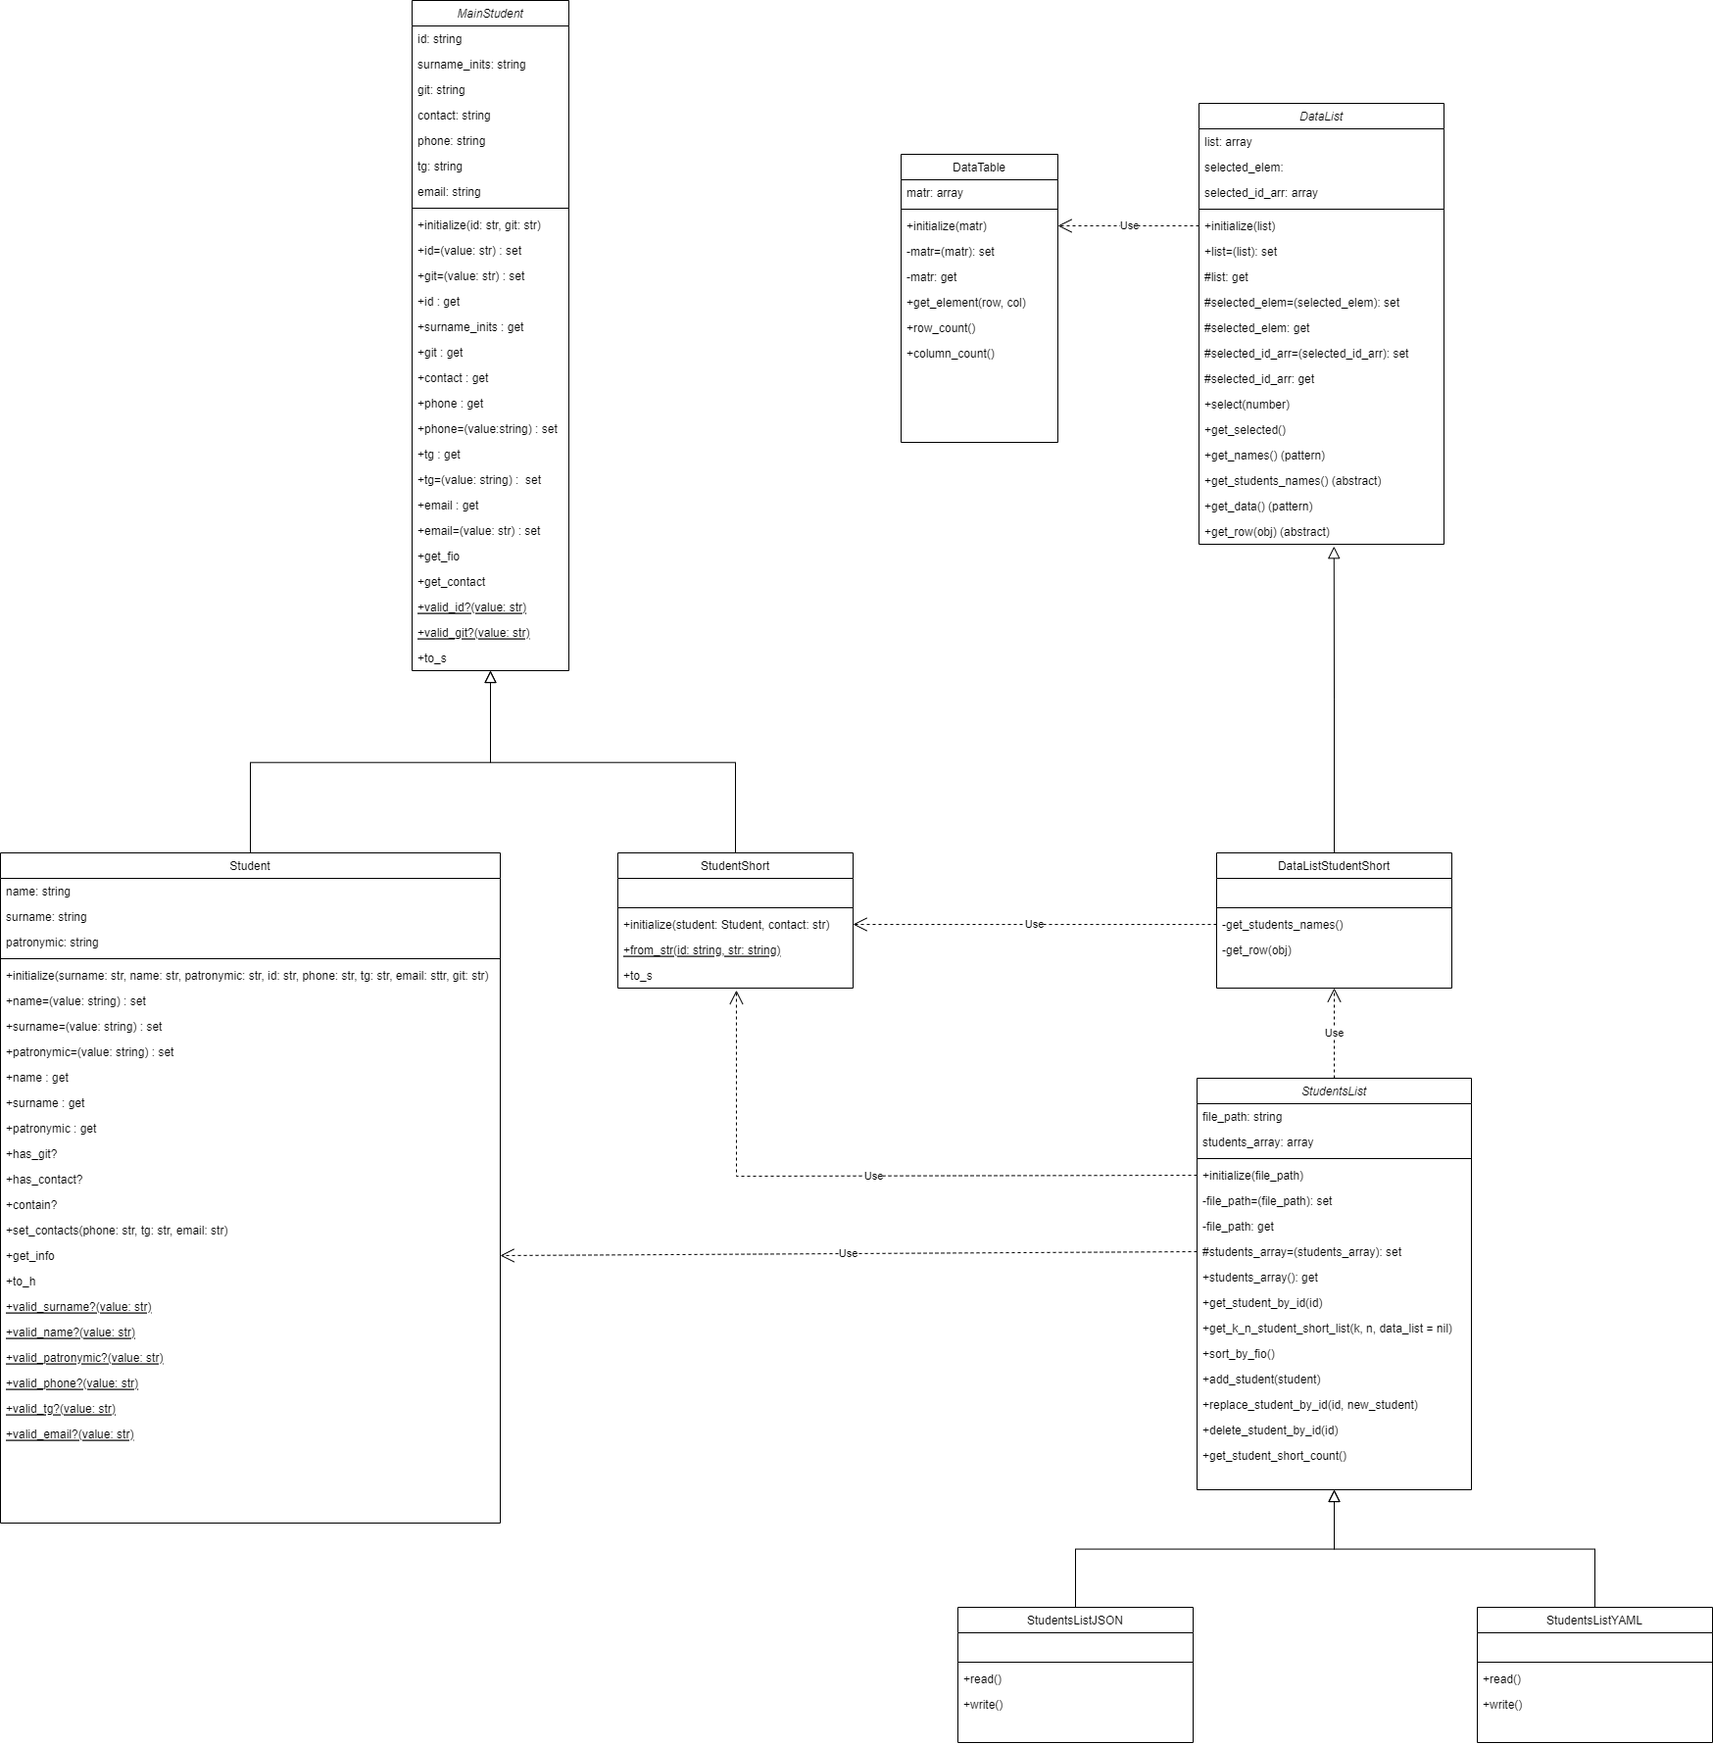
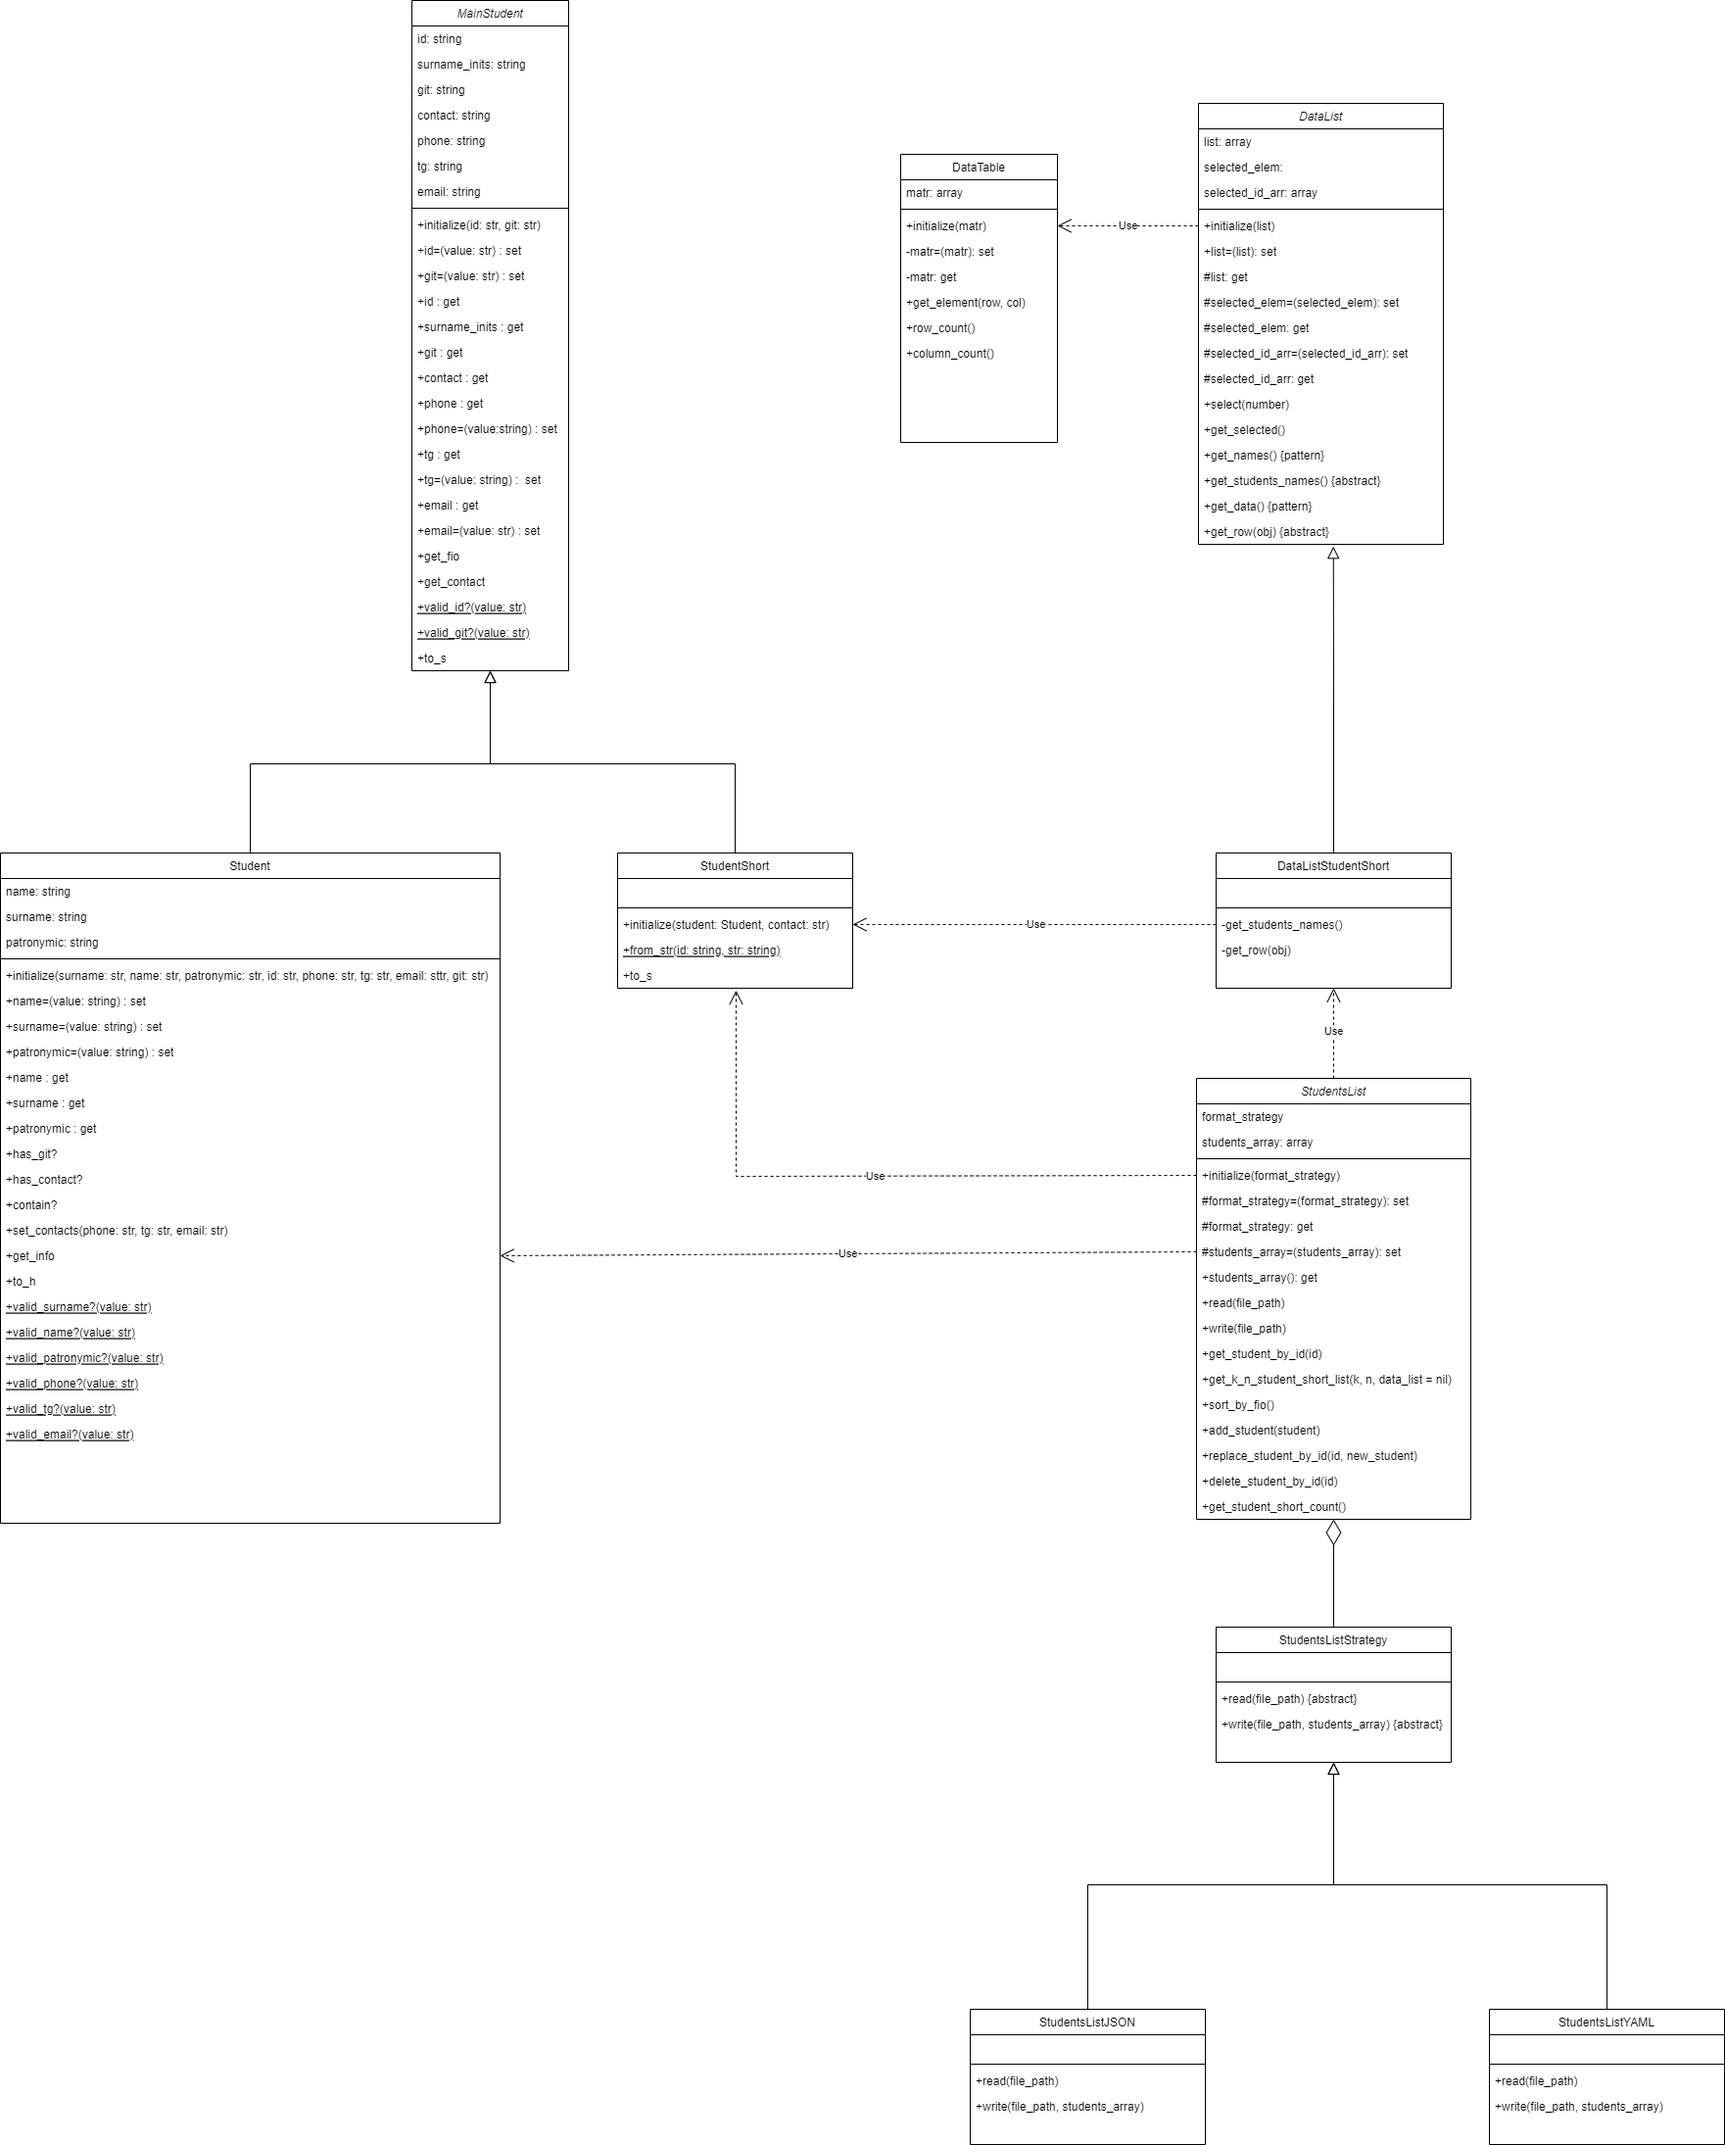
Лаб4.Задание2.6 Рефакторинг, паттерн "Стратегия"
Проведен рефакторинг, применён паттерн "Стратегия". Модифицирована диаграмма классов.

diff --git a/Students/main.rb b/Students/main.rb
@@ -1,6 +1,8 @@
 require_relative "student"
 require_relative "student_short"
 require_relative 'data_list_student_short.rb'
+require_relative 'students_list.rb'
+require_relative 'students_list_strategy.rb'
 
 students = [
 	Student.new(name: "Владимир", surname: "Иванов", patronymic: "Аркадьевич", phone: "+79183336640", git: "github.com/ok"),
@@ -36,3 +38,20 @@ puts st_names
 p st_data
 element = st_data.get_element(1, 1)
 puts element
+
+
+student_list_json = StudentsList.new(StudentsListJSON.new)
+student_list_yaml = StudentsList.new(StudentsListYAML.new)
+
+file_path_json = 'C:\Patterns\students_JSON.txt'
+file_path_yaml = 'C:\Patterns\students_YAML.txt'
+
+student_list_json.read(file_path_json)
+# student_list_json.write(file_path_json)
+student_list_yaml.read(file_path_yaml)
+# student_list_yaml.write(file_path_yaml)
+student_list_yaml.sort_by_fio()
+student_list_json.sort_by_fio()
+p student_list_json.get_k_n_student_short_list(1, 20)
+
+p student_list_yaml.get_k_n_student_short_list(1, 20)

diff --git a/Students/students_list_JSON.rb b/Students/students_list_JSON.rb
@@ -1,17 +1,18 @@
 require_relative 'students_list.rb'
+require_relative 'students_list_strategy.rb'
 require 'json'
 
-class StudentsListJSON < StudentsList
+class StudentsListJSON < StudentsListStrategy
 
-    def read()
+    def read(file_path)
         unless File.exist?(file_path)
             raise "Файл не найден!" 
         end
 
-        self.students_array = JSON.parse(File.read(file_path), symbolize_names: true).map { |data| Student.new(**data) }
+        JSON.parse(File.read(file_path), symbolize_names: true).map { |data| Student.new(**data) }
     end
 
-    def write()
+    def write(file_path, students_array)
         to_data_hash = students_array.map{|student| student.to_h}
         json_data = JSON.pretty_generate(to_data_hash)
         File.write(file_path, json_data)

diff --git a/Students/students_list.rb b/Students/students_list.rb
@@ -1,13 +1,23 @@
 require_relative 'data_list_student_short.rb'
 require_relative 'student.rb'
 require_relative 'student_short.rb'
+require_relative 'students_list_YAML.rb'
+require_relative 'students_list_JSON.rb'
 
 class StudentsList
-	private attr_accessor :file_path
+	protected attr_accessor :format_strategy
 	protected attr_writer :students_array
 
-	def initialize(file_path)
-		self.file_path = file_path
+	def initialize(format_strategy)
+		self.format_strategy = format_strategy
+	end
+
+	def read(file_path)
+		self.students_array = self.format_strategy.read(file_path)
+	end
+
+	def write(file_path)
+		self.format_strategy.write(file_path, students_array)
 	end
 
 	def students_array()

diff --git a/Students/students_list_YAML.rb b/Students/students_list_YAML.rb
@@ -1,17 +1,18 @@
 require_relative 'students_list.rb'
+require_relative 'students_list_strategy.rb'
 require 'yaml'
 
-class StudentsListYAML < StudentsList
+class StudentsListYAML < StudentsListStrategy
 
-	def read()
+	def read(file_path)
 		unless File.exist?(file_path)
             raise "Файл не найден!" 
         end
 
-		self.students_array = YAML.load_file(file_path, symbolize_names: true).map{ |data| Student.new(**data) }
+		YAML.load_file(file_path, symbolize_names: true).map{ |data| Student.new(**data) }
 	end
 
-	def write()
+	def write(file_path, students_array)
 		data = students_array.map { |student| student.to_h }
 		File.write(file_path, data.to_yaml)
 	end

diff --git a/Students/students_list_strategy.rb b/Students/students_list_strategy.rb
@@ -1,0 +1,12 @@
+require_relative 'students_list.rb'
+
+class StudentsListStrategy
+	def read(file_path)
+		raise NotImplementedError, "Метод read должен быть реализован!"
+	end
+
+	def write(file_path, students_array)
+		raise NotImplementedError, "Метод write должен быть реализован!"
+	end
+
+end
